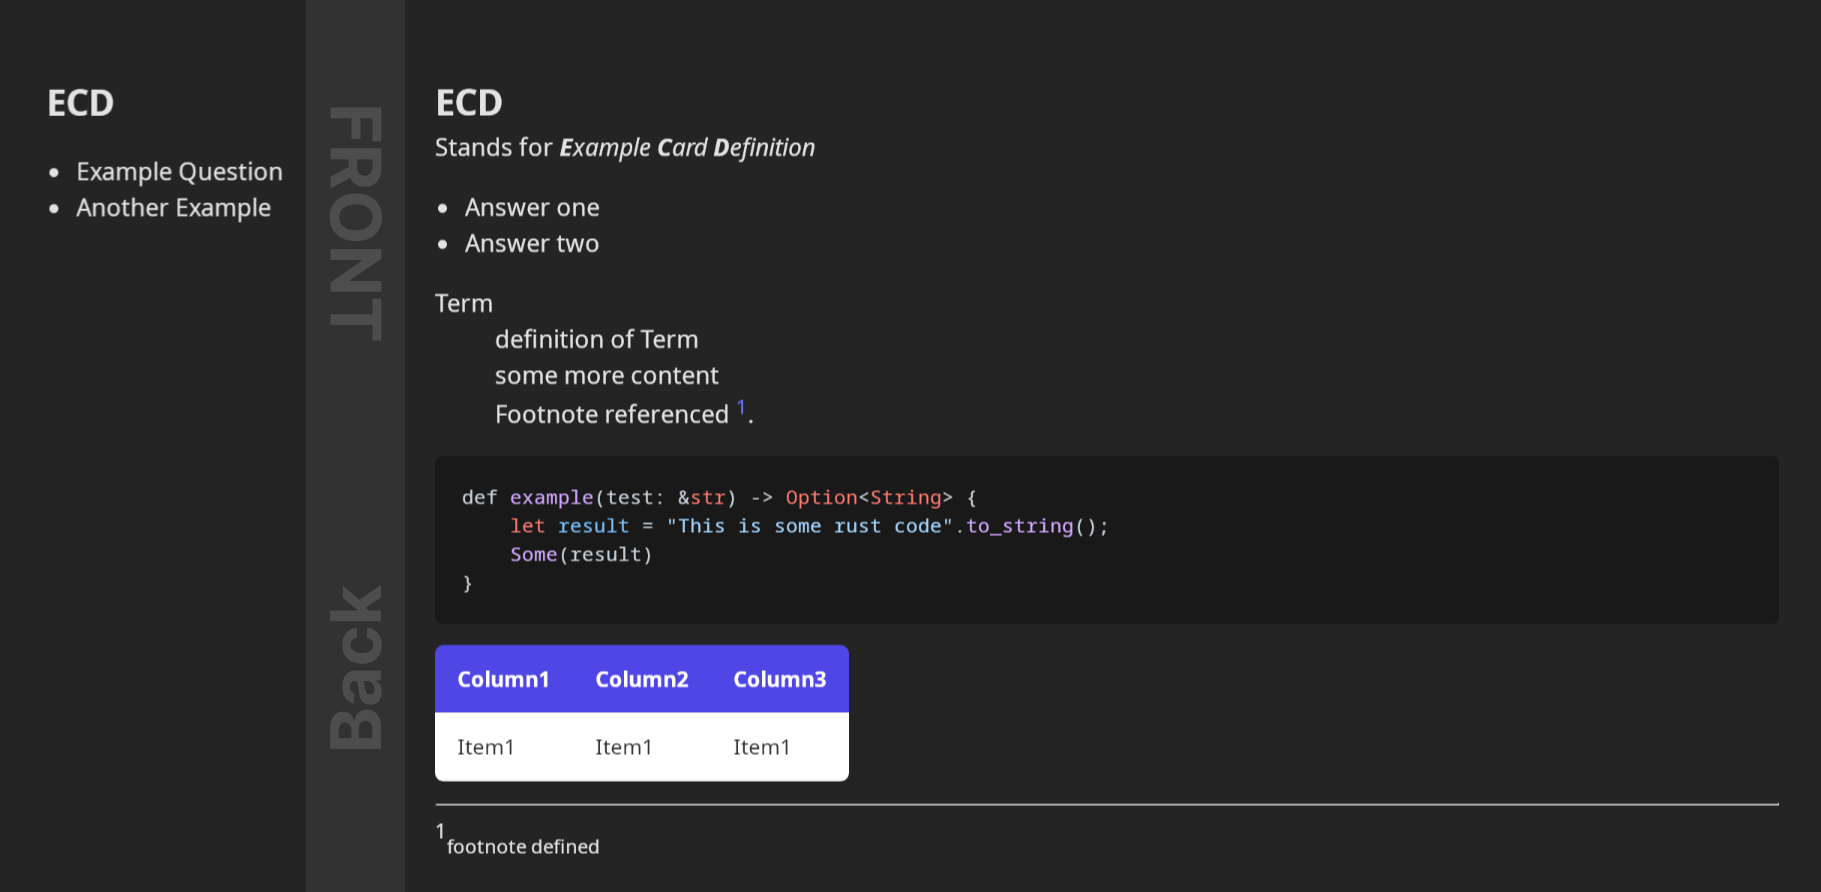
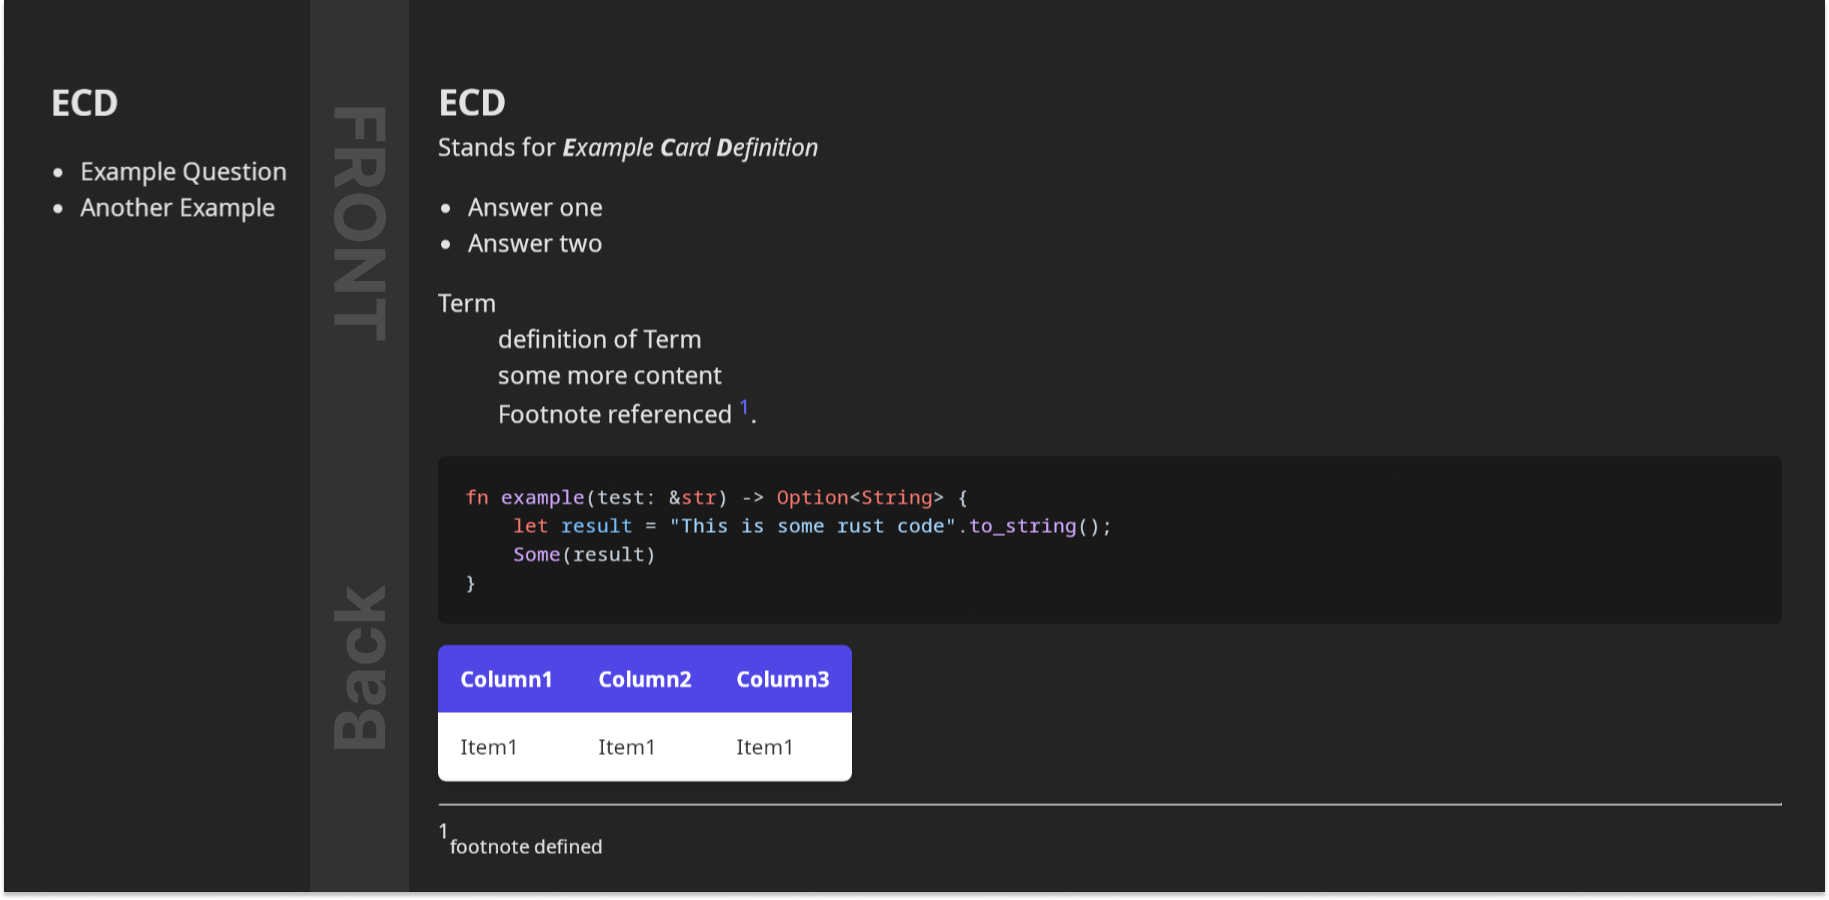
fix: removed confusion in example

diff --git a/README.md b/README.md
@@ -61,7 +61,7 @@ Term
 : Footnote referenced [^1].
 
 ```rust
-def example(test: &str) -> Option<String> {
+fn example(test: &str) -> Option<String> {
     let result = "This is some rust code".to_string();
     Some(result)
 }
